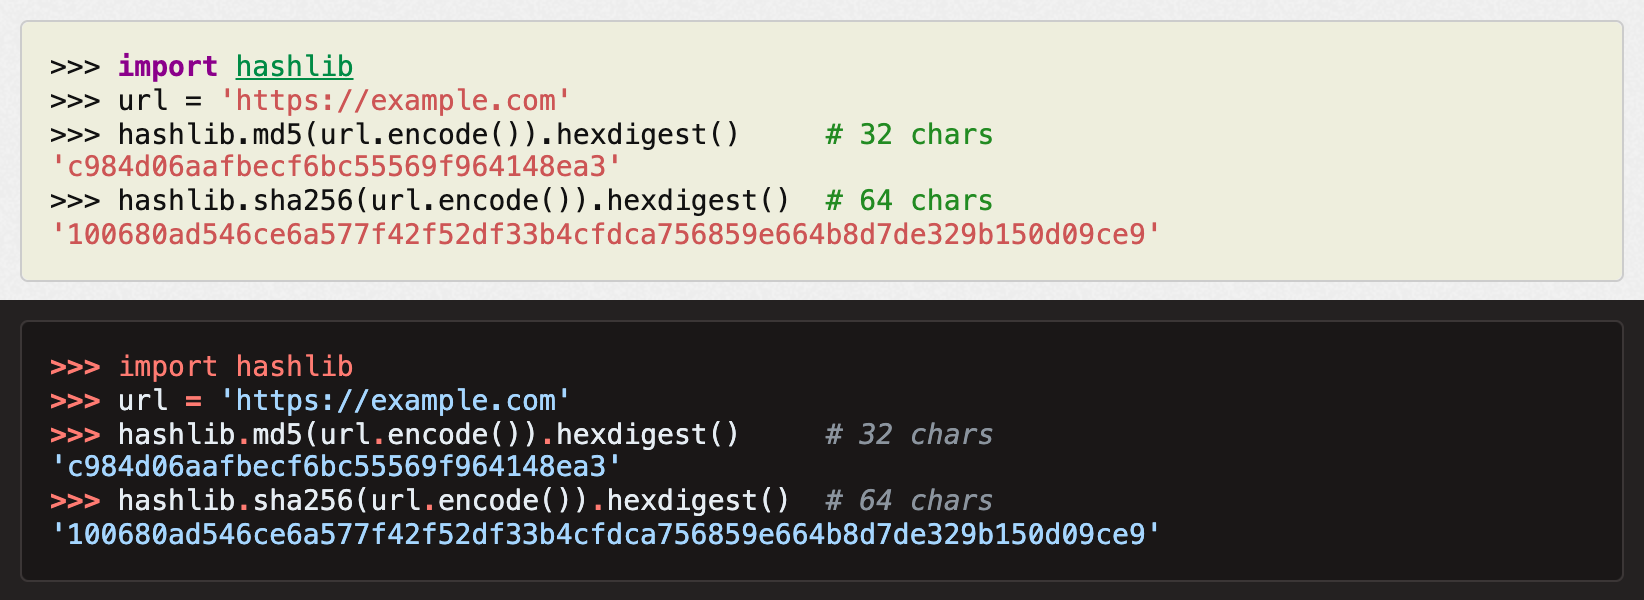
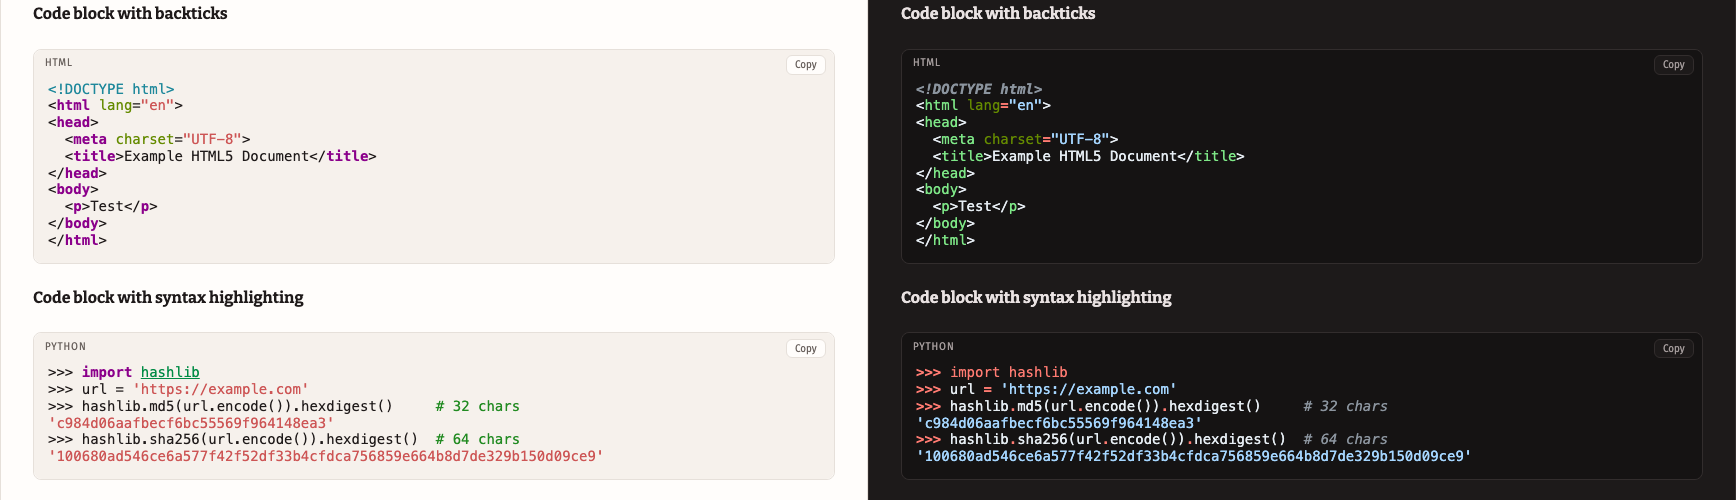
Refresh README and screenshots; fix mobile navbar and card gutters
- Add list and mobile screenshots (light and dark); regenerate code, table, social and thumbnail images
- README: describe the new look, article cards, copy button and mobile layout
- Sticky navbar only on wider screens; side gutter on phones
- Keep list-card images edge to edge on phones
- Offset jump-to headings below the sticky navbar

diff --git a/assets/css/style.css b/assets/css/style.css
@@ -71,9 +71,6 @@ table, img {
 }
 
 #navbar {
-    position: sticky;
-    top: 0;
-    z-index: 10;
     background: var(--nav-bg);
     -webkit-backdrop-filter: blur(8px);
     backdrop-filter: blur(8px);
@@ -96,6 +93,15 @@ table, img {
     font-size: 1.5em;
     text-transform: none;
     color: var(--text);
+}
+
+/* Stick to the top on wider screens; on phones the wrapped navbar is too tall to pin */
+@media (min-width: 48em) {
+    #navbar {
+        position: sticky;
+        top: 0;
+        z-index: 10;
+    }
 }
 
 /* Marks the page you are on */
@@ -164,7 +170,7 @@ table, img {
 
 @media only screen and (max-width: 600px) {
     .pad {
-        padding: 0.1em;
+        padding: 0.75em;
     }
 }
 
@@ -290,6 +296,17 @@ div.list time {
 
 span.author {
     float: right;
+}
+
+/* Keep jump-to headings clear of the sticky navbar */
+[id] {
+    scroll-margin-top: 4.5em;
+}
+
+@media (max-width: 48em) {
+    [id] {
+        scroll-margin-top: 1em;
+    }
 }
 
 h1, h2, h3 {
@@ -533,7 +550,7 @@ article table {
 }
 
 @media (max-width: 35.5em) {
-    article, div.list {
+    article {
         padding: 0 1em;
     }
 }

diff --git a/README.md b/README.md
@@ -1,8 +1,16 @@
 # Hugo Theme Prav
 
+A refined two column theme for Hugo that is easy on the eyes, with light and dark modes and a layout that works on phones.
+
 ![Screenshot](https://raw.githubusercontent.com/pravin/hugo-theme-prav/master/images/screenshot.png)
 
 ![Screenshot in dark mode](https://raw.githubusercontent.com/pravin/hugo-theme-prav/master/images/screenshot-dark.png)
+
+### On a phone
+
+![The theme on a phone, in light mode](https://raw.githubusercontent.com/pravin/hugo-theme-prav/master/images/mobile.png)
+
+![The theme on a phone, in dark mode](https://raw.githubusercontent.com/pravin/hugo-theme-prav/master/images/mobile-dark.png)
 
 ## History
 
@@ -12,17 +20,27 @@ This theme began it's life in early 2013, as the theme for my blog "[Thoughts on
 
 I have always believed in using as little computing resources as possible. This theme uses the excellent [purecss](https://purecss.io/) css library, which is tiny while still being quite functional. Icons are inline SVGs, so there is no icon font to download.
 
-The colours used have been chosen to be easy on the eyes, with just enough contrast to help with accessibility.
+The design is flat and quiet. Warm off-white and near-black surfaces, soft shadows and a single red accent keep the focus on your writing. Body text is limited to a comfortable line length, links are underlined, and keyboard focus is always visible. Colours have been chosen to be easy on the eyes, with enough contrast to help with accessibility.
 
 This theme is by no means complete. I have added to it over the last six years and will continue to do so. I hope you and the rest of the community will help in contributing to making this theme even better.
 
 ## Features
 
-This is a two column theme with a navbar at the top and a sidebar to the right. The navbar contains links to major pages and links to social networks. The sidebar contains an about section, a section with the last 10 posts and finally a section which lists tags used across your site.
+This is a two column theme with a navbar at the top and a sidebar to the right. The navbar contains links to major pages and links to social networks. It stays at the top of the screen as you scroll (on larger screens) and marks the page you are on. The sidebar contains an about section, a section with the last 10 posts and finally a section which lists tags used across your site. On small screens the sidebar moves below the article.
+
+### Article list
+
+Archive pages show posts as cards, with an optional feature image, the date and a short description. See [Feature images in archives](#feature-images-in-archives).
+
+![Article list in light mode](https://raw.githubusercontent.com/pravin/hugo-theme-prav/master/images/list.png)
+
+![Article list in dark mode](https://raw.githubusercontent.com/pravin/hugo-theme-prav/master/images/list-dark.png)
 
 ### Beautiful tables and images through purecss
 
-![Beautiful tables](https://raw.githubusercontent.com/pravin/hugo-theme-prav/master/images/table.png)
+Tables are styled with purecss, with striped rows and borders that follow light and dark mode. Wide tables scroll sideways on small screens instead of breaking the layout.
+
+![Tables in light and dark mode](https://raw.githubusercontent.com/pravin/hugo-theme-prav/master/images/table.png)
 
 ### Light and dark mode
 
@@ -49,17 +67,19 @@ Code is highlighted by Hugo's built-in highlighter (Chroma), with colours that f
 
 To use different styles, regenerate `assets/css/syntax.css` in your site with `hugo gen chromastyles --style=<name>`. The header of the theme's copy explains how the dark half is scoped.
 
+Each code block shows its language and has a copy button. The button needs JavaScript and the Clipboard API; without them the block still looks and works normally.
+
 Example highlighted code, in light and dark mode,
 
 ![Example highlighted code](https://raw.githubusercontent.com/pravin/hugo-theme-prav/master/images/code.png)
 
 ### Update the about image
 
-To update the image shown in the sidebar, create a file called `author.png` in your site's `static/img/` folder. Alternatively, set `params.authorImgPath` in your config.
+To update the image shown in the sidebar, create a file called `author.png` in your site's `static/img/` folder. Alternatively, set `params.authorImgPath` in your config. It is shown as a centred circle, so a square image works best.
 
 ### Feature images in archives
 
-Setting the `image` parameter in the front matter sets a feature image which is displayed in the articles list. The image can either be a [page resource](https://gohugo.io/content-management/page-resources/) (e.g. `content/posts/my-post/cover.jpg` in a page bundle) or a file in your site's `static/img/feature/` folder.
+Setting the `image` parameter in the front matter sets a feature image which is displayed at the top of the post's card in the articles list. Images are cropped to a wide banner, so keep the subject near the centre. The image can either be a [page resource](https://gohugo.io/content-management/page-resources/) (e.g. `content/posts/my-post/cover.jpg` in a page bundle) or a file in your site's `static/img/feature/` folder.
 
 ```yaml
 image: cover.jpg
@@ -102,7 +122,7 @@ Set `services.googleAnalytics.ID` in your config. The tracking code is only incl
 
 To show a link to a social network in the navbar (top-right), set its URL under `params.social`. To hide it, comment it out. Supported keys: `mastodon`, `bluesky`, `github`, `twitter`, `linkedin`, `medium`, `facebook` and `email`.
 
-![Social header](https://raw.githubusercontent.com/pravin/hugo-theme-prav/master/images/social.png)
+![Social header in light and dark mode](https://raw.githubusercontent.com/pravin/hugo-theme-prav/master/images/social.png)
 
 ## Configuration
 
